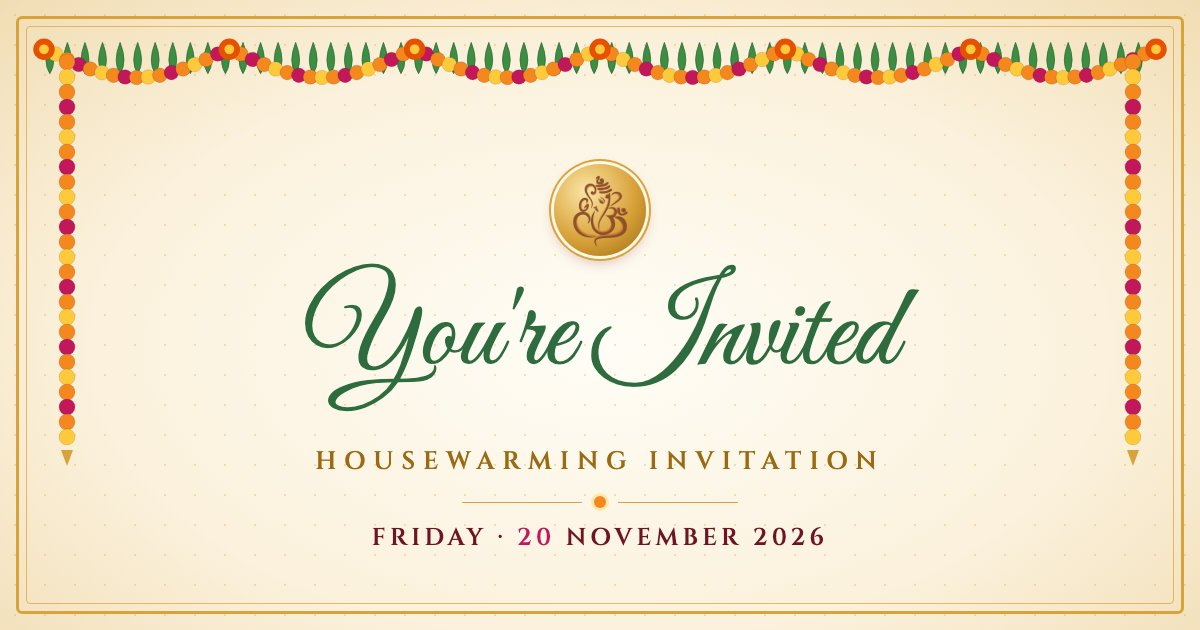
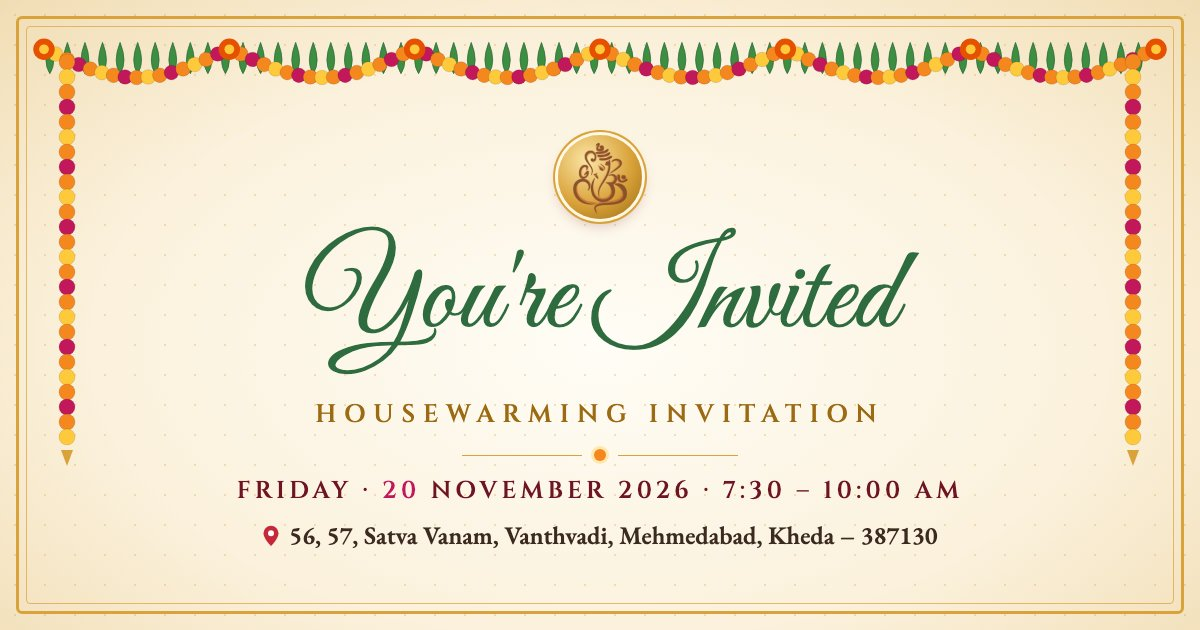
Link preview: add venue address

Changed region(s): [[0.185, 0.2111, 0.8017, 0.8746]]

diff --git a/index.html b/index.html
@@ -5,7 +5,7 @@
 <meta name="viewport" content="width=device-width, initial-scale=1">
 <title>You're Invited · Housewarming Invitation</title>
 <meta property="og:title" content="You're Invited · Housewarming Invitation">
-<meta property="og:description" content="Friday, 20 November 2026 · 7:30 AM – 10:00 AM">
+<meta property="og:description" content="Fri, 20 Nov 2026 · 7:30 – 10:00 AM · 📍 56, 57, Satva Vanam, Vanthvadi, Mehmedabad, Kheda – 387130">
 <meta property="og:image" content="https://amudaliyar.github.io/housewarming/preview.jpg">
 <meta property="og:image:width" content="1200">
 <meta property="og:image:height" content="630">
